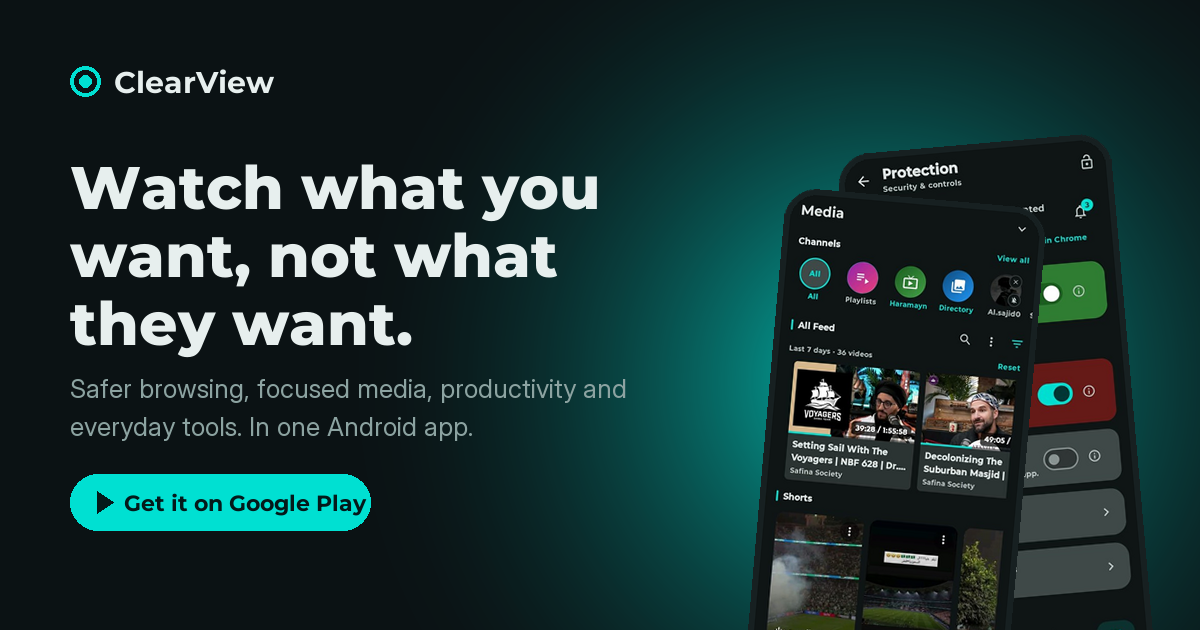
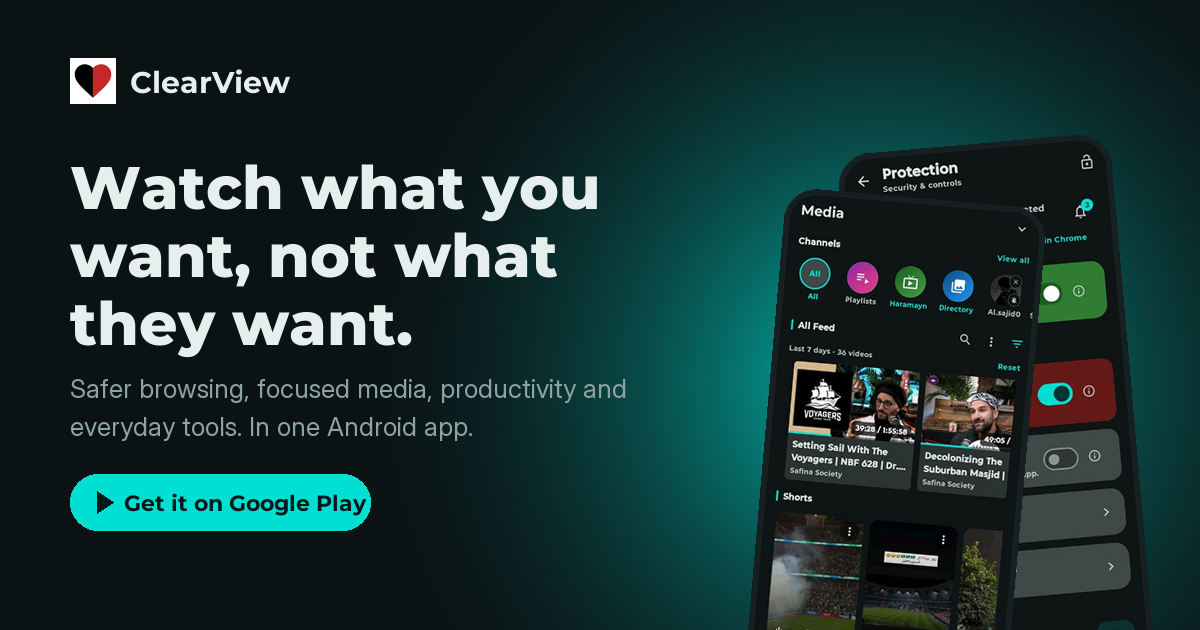
clearview -web fix

Changed region(s): [[0.0308, 0.0905, 0.2467, 0.181]]

diff --git a/src/components/icons.jsx b/src/components/icons.jsx
@@ -2,7 +2,8 @@
  * Inline SVG icons.
  *
  * Deliberately no icon font and no emoji — just the two marks the page needs,
- * drawn in currentColor so they inherit the teal accent.
+ * drawn in currentColor so they inherit the teal accent. The brand mark itself
+ * is the real app logo (public/logo.png), not a drawn stand-in.
  */
 
 /** Google Play triangle, for the store buttons. */
@@ -40,23 +41,6 @@ export function ChevronIcon({ dir = 'right', size = 18 }) {
       style={{ transform: `rotate(${rotation}deg)` }}
     >
       <path d="m6 9 6 6 6-6" />
-    </svg>
-  );
-}
-
-/** ClearView wordmark: a teal lens, matching the favicon. */
-export function LensMark({ size = 22 }) {
-  return (
-    <svg
-      viewBox="0 0 64 64"
-      width={size}
-      height={size}
-      aria-hidden="true"
-      focusable="false"
-      className="shrink-0"
-    >
-      <circle cx="32" cy="32" r="20" fill="none" stroke="currentColor" strokeWidth="6" />
-      <circle cx="32" cy="32" r="8" fill="currentColor" />
     </svg>
   );
 }

diff --git a/src/components/Header.jsx b/src/components/Header.jsx
@@ -1,5 +1,5 @@
-import { PLAY_URL } from '../data/content.js';
-import { LensMark, PlayIcon } from './icons.jsx';
+import { LOGO, PLAY_URL } from '../data/content.js';
+import { PlayIcon } from './icons.jsx';
 
 /** Sticky header: wordmark on the left, a small download button on the right. */
 export default function Header() {
@@ -10,9 +10,14 @@ export default function Header() {
           href="#top"
           className="flex items-center gap-2.5 font-display text-[1.05rem] font-bold tracking-tight text-mist"
         >
-          <span className="text-teal">
-            <LensMark size={20} />
-          </span>
+          {/* Decorative: the wordmark text next to it carries the name. */}
+          <img
+            src={LOGO.src}
+            width="26"
+            height="26"
+            alt=""
+            className="h-[26px] w-[26px] shrink-0 rounded-[8px] ring-1 ring-white/10"
+          />
           ClearView
         </a>
 

diff --git a/src/components/Footer.jsx b/src/components/Footer.jsx
@@ -1,5 +1,4 @@
-import { PLAY_URL } from '../data/content.js';
-import { LensMark } from './icons.jsx';
+import { LOGO, PLAY_URL } from '../data/content.js';
 
 /** Section 10 — footer. */
 export default function Footer() {
@@ -8,9 +7,13 @@ export default function Footer() {
       <div className="wrap flex flex-col gap-8 py-12 md:flex-row md:items-start md:justify-between">
         <div>
           <div className="flex items-center gap-2.5 font-display text-base font-bold tracking-tight">
-            <span className="text-teal">
-              <LensMark size={18} />
-            </span>
+            <img
+              src={LOGO.src}
+              width="22"
+              height="22"
+              alt=""
+              className="h-[22px] w-[22px] shrink-0 rounded-[7px] ring-1 ring-white/10"
+            />
             ClearView
           </div>
           <p className="mt-3 max-w-xs text-sm text-dim">

diff --git a/src/data/content.js b/src/data/content.js
@@ -6,6 +6,7 @@
  *
  * Screenshot files live in /public/images and are served from /images/*.
  * Each screen was assigned to a section by what it actually shows.
+ * The app logo (public/logo.png) is exported separately as LOGO.
  */
 
 /** Google Play listing. */
@@ -19,6 +20,15 @@ export const PLAY_URL =
  * `document.baseURI` keeps them correct at a domain root and in a subfolder.
  */
 const img = (file) => new URL(`images/${file}`, document.baseURI).href;
+
+/** Resolve a file that sits at the site root rather than under /images. */
+const asset = (file) => new URL(file, document.baseURI).href;
+
+/**
+ * The app mark — a heart split black/red on its white tile.
+ * Decorative, because the wordmark text sits right next to it.
+ */
+export const LOGO = { src: asset('logo.png') };
 
 /**
  * Every uploaded screenshot, keyed by a readable slug.

diff --git a/index.html b/index.html
@@ -14,9 +14,9 @@
     <meta name="theme-color" content="#00E0D2" />
     <link rel="canonical" href="https://play.google.com/store/apps/details?id=com.muddassir.clearview" />
 
-    <!-- Icons -->
-    <link rel="icon" type="image/svg+xml" href="./favicon.svg" />
-    <link rel="apple-touch-icon" href="./favicon.svg" />
+    <!-- Icons: the app mark on its white tile, generated by tools/make-logo.py -->
+    <link rel="icon" type="image/png" sizes="32x32" href="./favicon-32.png" />
+    <link rel="apple-touch-icon" href="./apple-touch-icon.png" />
 
     <!-- Open Graph / social preview -->
     <meta property="og:type" content="website" />

diff --git a/tools/make-logo.py b/tools/make-logo.py
@@ -1,0 +1,111 @@
+"""
+Builds the ClearView brand assets from the uploaded logo (temp/1.jpeg).
+
+The uploaded file is the app mark on a plain white background: a heart split
+down the middle, black on the left and red on the right. Per the brief the mark
+keeps its white background, so every asset here is the heart re-centred on a
+clean white tile rather than cut out to transparency.
+
+Outputs (into public/):
+  logo.png              300x300 white tile, used for the header/footer wordmark
+  favicon-32.png         32x32 white tile with rounded corners
+  apple-touch-icon.png  180x180 white tile (iOS applies its own corner mask)
+
+Run from the project root:  python tools/make-logo.py
+"""
+
+from PIL import Image, ImageDraw
+import numpy as np
+import os
+
+SRC = "temp/1.jpeg"
+OUT_DIR = "public"
+
+TILE = 300          # master tile size, in px
+HEART_FILL = 0.78   # how much of the tile height the heart occupies
+BACKGROUND = (255, 255, 255, 255)
+
+BLACK = np.array([0.0, 0.0, 0.0])
+RED = np.array([197.0, 40.0, 40.0])
+WHITE = 255.0
+
+
+def extract_heart():
+    """Return the heart as RGBA, cropped tight to its ink, on transparent."""
+    a = np.asarray(Image.open(SRC).convert("RGB")).astype(np.float64)
+
+    dist = np.linalg.norm(WHITE - a, axis=2)
+    ys, xs = np.where(dist > 26)
+    pad = 8
+    y0, y1 = max(ys.min() - pad, 0), min(ys.max() + 1 + pad, a.shape[0])
+    x0, x1 = max(xs.min() - pad, 0), min(xs.max() + 1 + pad, a.shape[1])
+    crop = a[y0:y1, x0:x1]
+
+    r, g, b = crop[:, :, 0], crop[:, :, 1], crop[:, :, 2]
+    # The red half has a much higher red channel than green/blue; the black
+    # half does not. That is enough to split the two tones cleanly.
+    is_red = (r - (g + b) / 2.0) > 40.0
+
+    # Recover alpha by un-mixing each pixel against the white background,
+    # using whichever channel carries the most contrast for that tone.
+    black_alpha = 1.0 - crop.mean(axis=2) / WHITE
+    red_alpha = (WHITE - g) / (WHITE - RED[1])
+    alpha = np.where(is_red, red_alpha, black_alpha)
+    alpha = np.clip(alpha, 0.0, 1.0)
+
+    # JPEG ringing leaves a faint haze over the whole frame; drop it and
+    # re-stretch so the heart stays solid instead of washing out at the edges.
+    alpha[alpha < 0.12] = 0.0
+    alpha = np.clip((alpha - 0.12) / 0.88, 0.0, 1.0)
+
+    rgba = np.zeros(crop.shape[:2] + (4,), dtype=np.uint8)
+    tone = np.where(is_red[:, :, None], RED.reshape(1, 1, 3), BLACK.reshape(1, 1, 3))
+    rgba[:, :, :3] = np.clip(tone, 0, 255).astype(np.uint8)
+    rgba[:, :, 3] = np.round(alpha * 255).astype(np.uint8)
+    return Image.fromarray(rgba, "RGBA")
+
+
+def build_tile(heart, size):
+    """Centre the heart on a white square tile of `size` px."""
+    target_h = round(size * HEART_FILL)
+    target_w = round(target_h * heart.width / heart.height)
+    scaled = heart.resize((target_w, target_h), Image.LANCZOS)
+
+    tile = Image.new("RGBA", (size, size), BACKGROUND)
+    tile.alpha_composite(scaled, ((size - target_w) // 2, (size - target_h) // 2))
+    return tile
+
+
+def rounded(tile, size, radius_ratio=0.22):
+    """Copy of the tile with rounded corners, for the favicon."""
+    mask = Image.new("L", (size, size), 0)
+    ImageDraw.Draw(mask).rounded_rectangle(
+        [0, 0, size - 1, size - 1], radius=round(size * radius_ratio), fill=255
+    )
+    out = Image.new("RGBA", (size, size), (0, 0, 0, 0))
+    out.paste(tile, (0, 0), mask)
+    return out
+
+
+def main():
+    os.makedirs(OUT_DIR, exist_ok=True)
+    heart = extract_heart()
+    print(f"heart: {heart.width}x{heart.height}")
+
+    master = build_tile(heart, TILE)
+    master.convert("RGB").save(f"{OUT_DIR}/logo.png", optimize=True)
+
+    fav = rounded(master.resize((32, 32), Image.LANCZOS), 32)
+    fav.save(f"{OUT_DIR}/favicon-32.png", optimize=True)
+
+    master.resize((180, 180), Image.LANCZOS).convert("RGB").save(
+        f"{OUT_DIR}/apple-touch-icon.png", optimize=True
+    )
+
+    for name in ("logo.png", "favicon-32.png", "apple-touch-icon.png"):
+        path = os.path.join(OUT_DIR, name)
+        print(f"{name}: {Image.open(path).size} {os.path.getsize(path)}B")
+
+
+if __name__ == "__main__":
+    main()

diff --git a/tools/make-og.py b/tools/make-og.py
@@ -120,9 +120,10 @@ canvas.alpha_composite(phone('public/images/media-feed.jpeg', (250, 500), 26, -5
 draw = ImageDraw.Draw(canvas)
 
 # --- Wordmark ---------------------------------------------------------------
-draw.ellipse([70, 66, 100, 96], outline=TEAL, width=4)
-draw.ellipse([79, 75, 91, 87], fill=TEAL)
-draw.text((114, 63), 'ClearView', font=font('Montserrat.ttf', 30, 700), fill=MIST)
+# The real app mark, on its white tile, beside the name.
+logo = Image.open('public/logo.png').convert('RGBA').resize((46, 46), Image.LANCZOS)
+canvas.alpha_composite(logo, (70, 58))
+draw.text((130, 63), 'ClearView', font=font('Montserrat.ttf', 30, 700), fill=MIST)
 
 # --- Headline ---------------------------------------------------------------
 headline = font('Montserrat.ttf', 60, 800)

diff --git a/README.md b/README.md
@@ -45,9 +45,12 @@ python tools/make-og.py    # needs Pillow + numpy, run from the project root
 ## Layout of the code
 
 ```
-index.html                 meta tags, Open Graph, fonts, favicon link
+index.html                 meta tags, Open Graph, fonts, favicon links
 public/images/*.jpeg       the app screenshots (optimised, long edge 1000px)
-public/favicon.svg         teal lens mark
+public/logo.png            the app mark, on its white tile (header + footer)
+public/favicon-32.png      the same mark, corners rounded, for the browser tab
+public/apple-touch-icon.png
+tools/make-logo.py         generates the three logo assets from temp/1.jpeg
 public/og.png              1200x630 social share card
 src/index.css              the only stylesheet — tokens, phone frames, glow,
                            reveal animation, lightbox
@@ -72,11 +75,15 @@ reference its key from a section's `cluster` and from `GALLERY`.
 
 ## Notes
 
-- **One upload did not make it into the gallery.** `temp/1.jpeg`, the first file
-  uploaded, is a 1080x1022 near-white image with a small centred red/black mark and
-  no app UI or readable text — it looks like a failed export rather than a ClearView
-  screen, so it is not included. The gallery renders `{items.length}` screens, so
-  re-adding a replacement is a one-line change in `SCREENS` + `GALLERY`.
+- **`temp/1.jpeg` is the app logo, not a screen.** It is a heart split black and
+  red on a white background, so it is used as the brand mark rather than as a
+  gallery screenshot: it appears in the header, in the footer, as the favicon and
+  in the share card. `tools/make-logo.py` rebuilds those assets from it — rerun it
+  if the logo is ever replaced. As delivered it keeps its white background:
+  `public/logo.png` is the heart centred on a 300x300 white tile, and the header
+  and footer round the corners with CSS.
+- The gallery holds the 15 screens, so it renders `{items.length}` of them. Adding
+  one back is a one-line change in `SCREENS` + `GALLERY`.
 - The Quran section has two screens (reminder + surah list). There is no separate
   full-page reading-view screenshot in the upload, so the reminder screen — which
   already shows a verse with its ayah position and copy controls — carries that part.
